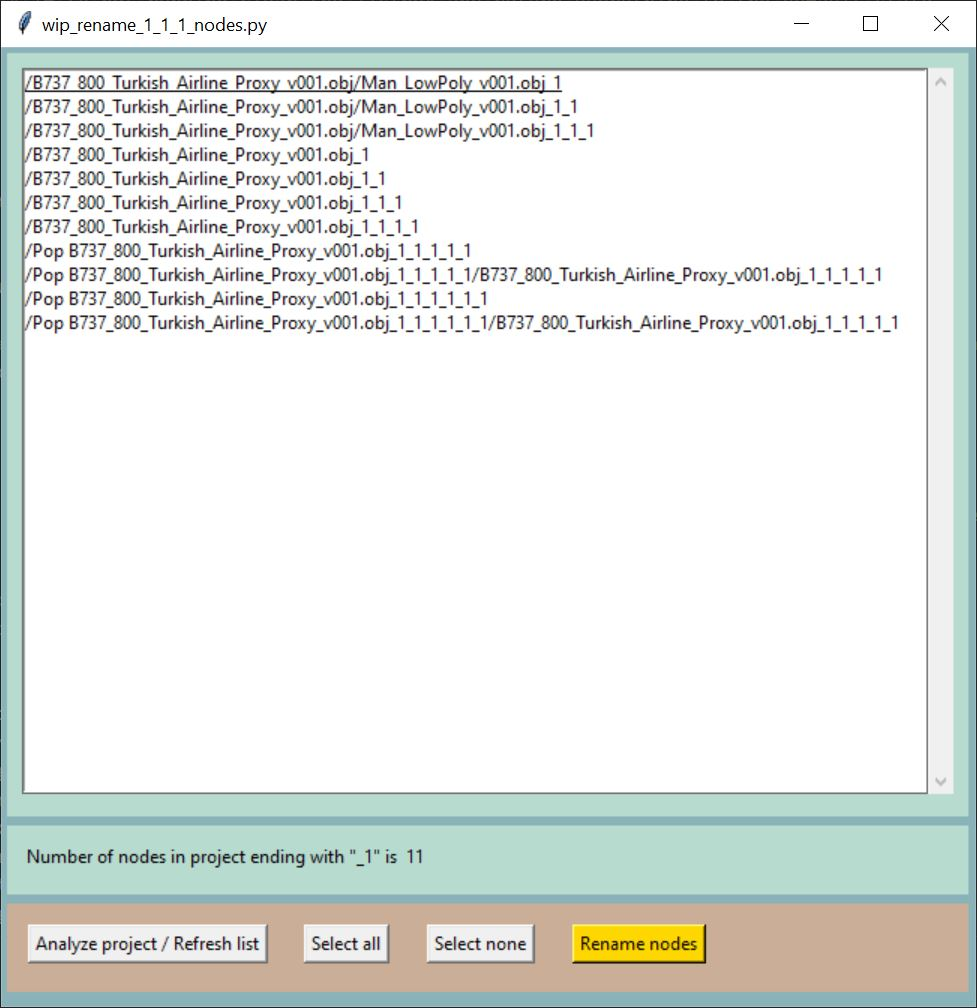
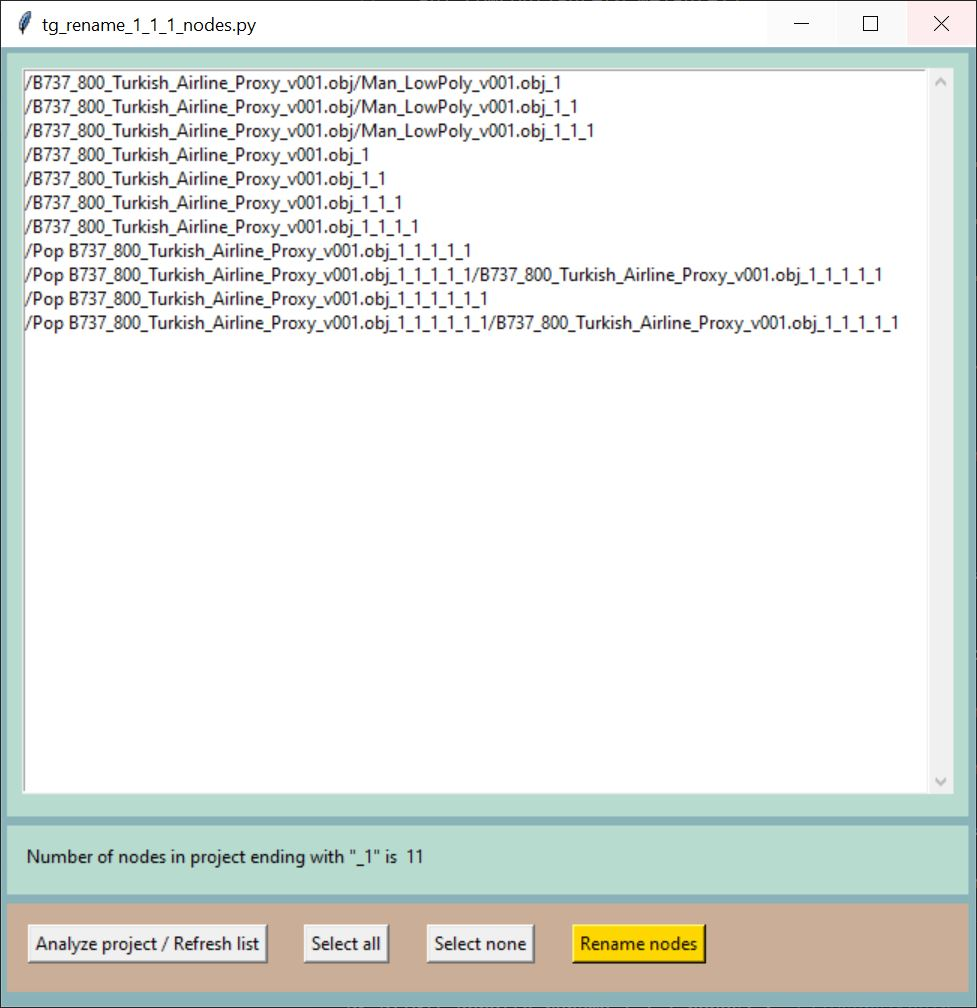
updated displayed script name and image

diff --git a/tg_rename_1_1_1_nodes.py b/tg_rename_1_1_1_nodes.py
@@ -6,7 +6,7 @@ import terragen_rpc as tg
 
 gui = Tk()
 gui.geometry("650x640")
-gui.title("wip_rename_1_1_1_nodes.py")
+gui.title("tg_rename_1_1_1_nodes.py")
 gui.config(bg="#89B2B9")
 
 gui.rowconfigure(0,weight=1)
